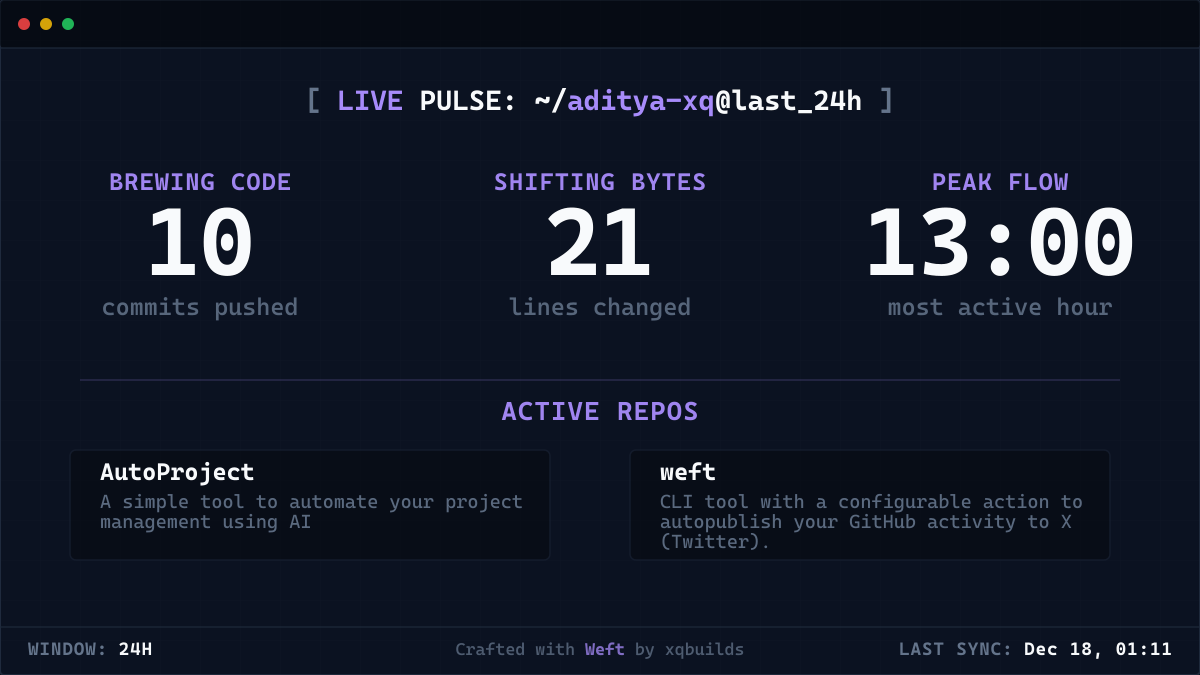
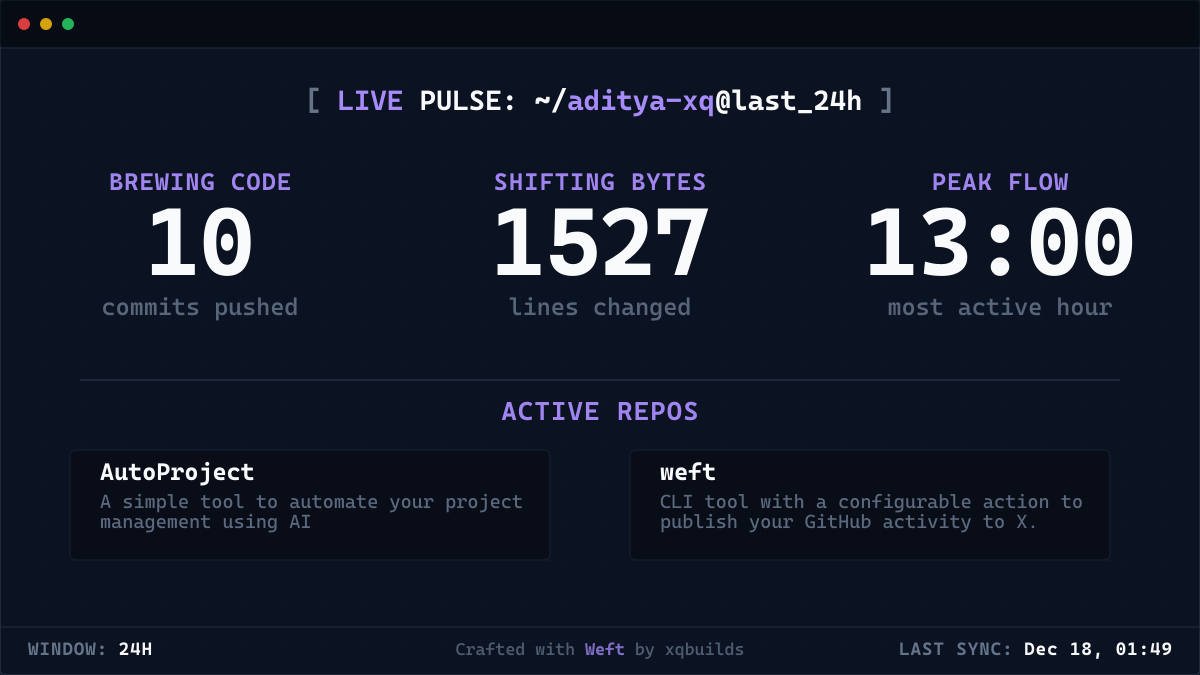
refactor: cleaned up main

Changed region(s): [[0.4008, 0.3111, 0.5858, 0.4044], [0.555, 0.7467, 0.8942, 0.8089], [0.9558, 0.9333, 0.9867, 0.9644]]

diff --git a/src/cli/main.ts b/src/cli/main.ts
@@ -2,59 +2,141 @@
 import fs from 'fs'
 import path from 'path'
 import yaml from 'js-yaml'
+
 import { fetchGithubMetrics } from '../fetchers/githubFetcher'
 import { postToX } from '../publish/xClient'
 import { svgToPngSharp } from '../render/svgToPng'
 import { renderSVG } from '../render/svgGithubTemplate'
+
 import type { Config } from '../types'
 import { error, info } from '../utils/logger'
 
+function requireEnv(name: string) {
+    const value = process.env[name]
+    if (!value) throw new Error(`${name} env secret is required`)
+    return value
+}
+
 async function main() {
     try {
+        // -------------------------
+        // Parse CLI args
+        // -------------------------
         const argv = process.argv.slice(2)
         const cfgIndex = argv.indexOf('--config')
         const cfgPath = cfgIndex >= 0 ? argv[cfgIndex + 1] : 'config/default.yml'
         const dryRun = argv.includes('--dry-run')
 
+        // -------------------------
+        // Load & validate config
+        // -------------------------
         info('Loading config from', cfgPath)
+
+        if (!fs.existsSync(cfgPath)) {
+            throw new Error(`Config file not found: ${cfgPath}`)
+        }
+
         const rawCfg = fs.readFileSync(cfgPath, 'utf8')
         const cfg = yaml.load(rawCfg) as Config
 
-        if (!cfg.github?.username) throw new Error('config.github.username is required')
+        if (!cfg.github?.username) {
+            throw new Error('config.github.username is required')
+        }
 
-        const token = process.env.GITHUB_TOKEN as string | undefined
-        if (!token) throw new Error('GITHUB_TOKEN env secret is required')
+        // -------------------------
+        // Resolve runtime options
+        // -------------------------
+        const timezone = cfg.runtime?.timezone ?? 'Asia/Kolkata'
+        const outDir = 'out'
 
-        const rawMetrics = await fetchGithubMetrics(token, cfg.github.username, cfg.time_window || { duration: '24h' }, cfg.runtime?.timezone || 'Asia/Kolkata')
+        // -------------------------
+        // Auth: GitHub
+        // -------------------------
+        const githubToken = requireEnv('GITHUB_TOKEN')
+
+        // -------------------------
+        // Fetch metrics
+        // -------------------------
+        info('Fetching GitHub metrics', {
+            username: cfg.github.username,
+            timezone
+        })
+
+        const rawMetrics = await fetchGithubMetrics(
+            githubToken,
+            cfg.github.username,
+            cfg.time_window ?? { duration: '24h' },
+            timezone
+        )
+
+        // -------------------------
+        // Render SVG
+        // -------------------------
         const svgConfig = {
             ...cfg.visual,
-            timezone: cfg.runtime?.timezone || 'Asia/Kolkata',
+            timezone,
             username: cfg.github.username
         }
+
         const svg = renderSVG(rawMetrics, svgConfig)
-        fs.mkdirSync('out', { recursive: true })
-        fs.writeFileSync(path.join('out', 'summary.svg'), svg, 'utf8')
 
-        const pngBuf = await svgToPngSharp(svg, cfg.visual.width, cfg.visual.theme.background)
-        await fs.promises.writeFile(path.join('out', 'summary.png'), pngBuf)
-        info('Generated out/summary.png')
+        fs.mkdirSync(outDir, { recursive: true })
+        fs.writeFileSync(path.join(outDir, 'summary.svg'), svg, 'utf8')
 
+        // -------------------------
+        // Convert SVG → PNG
+        // -------------------------
+        const pngBuf = await svgToPngSharp(
+            svg,
+            cfg.visual.width,
+            cfg.visual.theme.background
+        )
+
+        await fs.promises.writeFile(
+            path.join(outDir, 'summary.png'),
+            pngBuf
+        )
+
+        info('Generated summary image', {
+            svg: path.join(outDir, 'summary.svg'),
+            png: path.join(outDir, 'summary.png')
+        })
+
+        // -------------------------
+        // Dry run exit
+        // -------------------------
         if (dryRun) {
             info('Dry-run enabled; skipping publish')
             return
         }
 
-        if (cfg.twitter?.publish && cfg.twitter.message_template) {
-            info('Publishing to X...')
-            await postToX(cfg.twitter.message_template, pngBuf)
-            info('Successfully published!')
-        } else {
+        // -------------------------
+        // Publish to X (optional)
+        // -------------------------
+        if (!cfg.twitter?.publish) {
             info('Publishing disabled in config')
+            return
         }
+
+        if (!cfg.twitter.message_template) {
+            throw new Error('twitter.message_template is required when publish=true')
+        }
+
+        // Ensure X secrets are present before attempting publish
+        requireEnv('X_CONSUMER_KEY')
+        requireEnv('X_CONSUMER_SECRET')
+        requireEnv('X_ACCESS_TOKEN')
+        requireEnv('X_ACCESS_SECRET')
+
+        info('Publishing summary to X')
+        await postToX(cfg.twitter.message_template, pngBuf)
+        info('Successfully published to X')
     } catch (err: any) {
         error('Fatal error:', err?.message ?? err)
         process.exit(1)
     }
 }
 
-if (import.meta.main) main()
+if (import.meta.main) {
+    main()
+}

diff --git a/src/render/svgGithubTemplate.ts b/src/render/svgGithubTemplate.ts
@@ -8,9 +8,9 @@ function escapeXml(value: unknown): string {
         .replace(/'/g, '&apos;')
 }
 
-function fmt(n: number, locale = 'en-US') {
+function fmt(n: number) {
     if (!isFinite(n)) return '0'
-    try { return n.toLocaleString(locale) } catch { return String(Math.round(n)) }
+    return String(Math.round(n))
 }
 
 function getTimestamp(timezone = 'UTC'): string {
